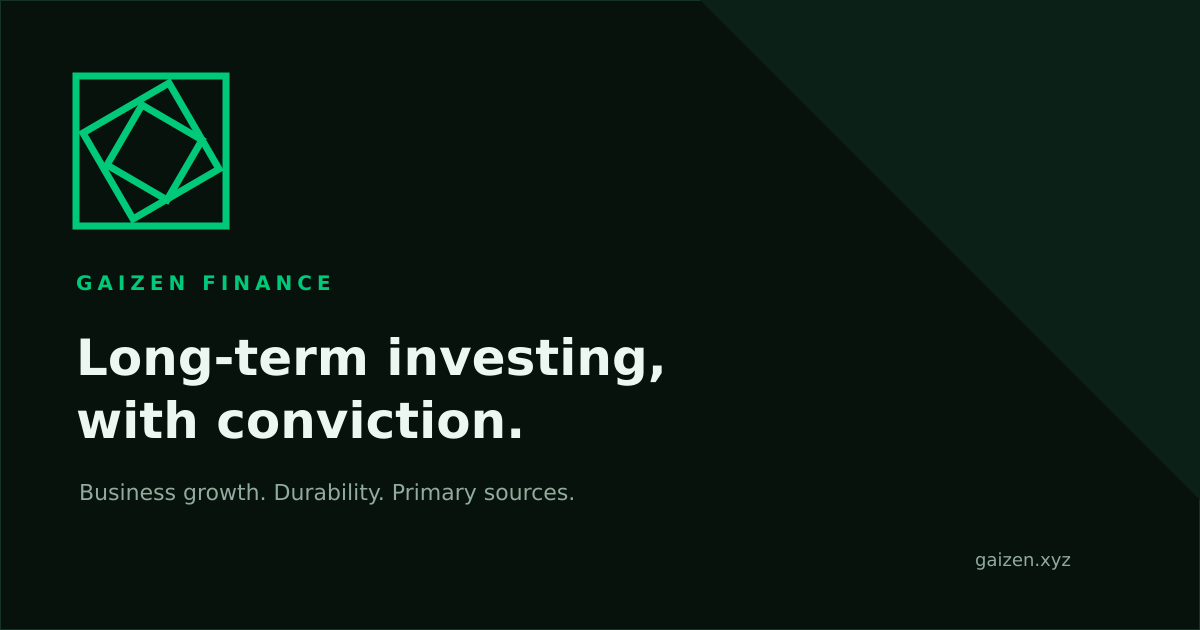
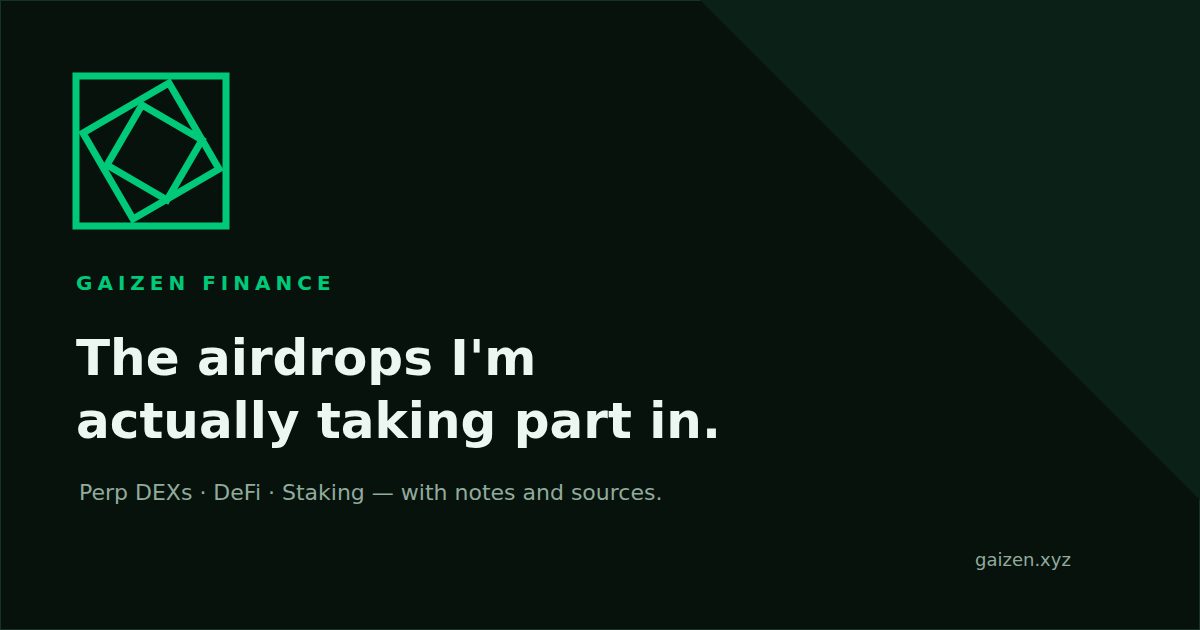
Refresh link preview image and site description
- New OG image text: "The airdrops I'm actually taking part in."
- Shared OG_IMAGE so English pages keep the preview image; cache-busted URL
- Site description no longer mentions payout estimates

diff --git a/app/layout.tsx b/app/layout.tsx
@@ -3,10 +3,11 @@ import './globals.css'
 import Header from '@/components/layout/Header'
 import Footer from '@/components/layout/Footer'
 import { serializeJsonLd } from '@/lib/json-ld'
+import { OG_IMAGE } from '@/lib/og'
 
 const SITE_URL = 'https://gaizen.xyz'
 const SITE_NAME = 'GAIZEN FINANCE'
-const SITE_DESCRIPTION = '筆者が実際に参加している仮想通貨のエアドロップ・ポイントプログラムを、TGE時期・進み具合・受取見込み・調達額・チームで一覧にした個人サイト。'
+const SITE_DESCRIPTION = '筆者が実際に参加している仮想通貨のエアドロップ・ポイントプログラムを、Perp DEX・DeFi・Staking ごとに、筆者のメモと出典つきで一覧にした個人サイト。'
 
 export const metadata: Metadata = {
   metadataBase: new URL(SITE_URL),
@@ -24,13 +25,13 @@ export const metadata: Metadata = {
     siteName: SITE_NAME,
     title: SITE_NAME,
     description: SITE_DESCRIPTION,
-    images: [{ url: `${SITE_URL}/og-image.png`, width: 1200, height: 630, alt: SITE_NAME }],
+    images: [OG_IMAGE],
   },
   twitter: {
     card: 'summary_large_image',
     title: SITE_NAME,
     description: SITE_DESCRIPTION,
-    images: [`${SITE_URL}/og-image.png`],
+    images: [OG_IMAGE.url],
   },
 }
 

diff --git a/components/cards/CardsPage.tsx b/components/cards/CardsPage.tsx
@@ -1,6 +1,7 @@
 import type { Metadata } from 'next'
 import { AS_OF, CARDS, type Card } from '@/content/cards/cards'
 import { CARDS_EN } from '@/content/cards/cards.en'
+import { OG_IMAGE } from '@/lib/og'
 
 export type Locale = 'ja' | 'en'
 
@@ -101,7 +102,7 @@ export function cardsMetadata(locale: Locale): Metadata {
       ? 'Crypto cards (ether.fi Cash, Ethena Pay, KAST, Tria, Plasma One, MetaMask Card, Bybit Card, Bitget Wallet Card, RedotPay) compared on cashback rates and monthly caps, card and annual fees, FX fees, KYC and tier requirements, from official sources.'
       : '仮想通貨カード（ether.fi Cash・Ethena Pay・KAST・Tria・Plasma One・MetaMask Card・Bybit Card・Bitget Wallet Card・RedotPay）のキャッシュバック率と月の上限、発行費・年会費、為替手数料、KYC、上位ランクの条件を公式資料で比べた一覧。',
     alternates: { canonical: locale === 'en' ? en : ja, languages: { ja, en } },
-    ...(locale === 'en' ? { openGraph: { locale: 'en_US' } } : {}),
+    ...(locale === 'en' ? { openGraph: { locale: 'en_US', images: [OG_IMAGE] } } : {}),
   }
 }
 

diff --git a/app/en/page.tsx b/app/en/page.tsx
@@ -2,12 +2,13 @@ import Link from 'next/link'
 import type { Metadata } from 'next'
 import { getProjectsData } from '@/lib/projects'
 import TrackerBoard from '@/components/tracker/TrackerBoard'
+import { OG_IMAGE } from '@/lib/og'
 
 export const metadata: Metadata = {
   title: { absolute: 'GAIZEN FINANCE | Airdrop' },
   description: 'The crypto airdrop and points programs the author actually takes part in, listed by TGE timing, progress, VC funding, X followers and team base.',
   alternates: { canonical: 'https://gaizen.xyz/en/', languages: { ja: 'https://gaizen.xyz/', en: 'https://gaizen.xyz/en/' } },
-  openGraph: { locale: 'en_US' },
+  openGraph: { locale: 'en_US', images: [OG_IMAGE] },
 }
 
 export default function EnglishHomePage() {

diff --git a/lib/og.ts b/lib/og.ts
@@ -1,0 +1,2 @@
+/** Shared link-preview image. Bump the query string when the image changes so X and others refetch it. */
+export const OG_IMAGE = { url: 'https://gaizen.xyz/og-image.png?v=2', width: 1200, height: 630, alt: 'GAIZEN FINANCE' }
